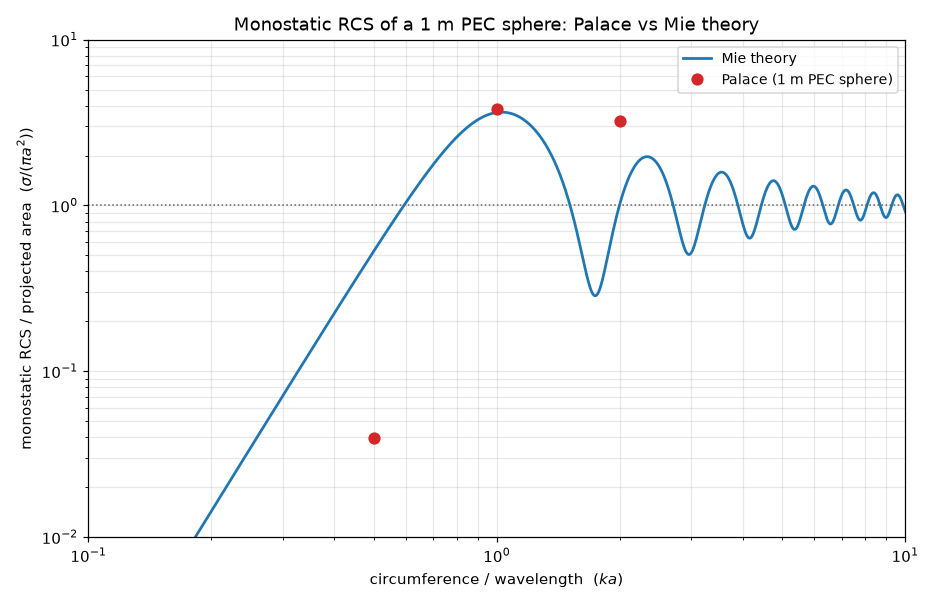
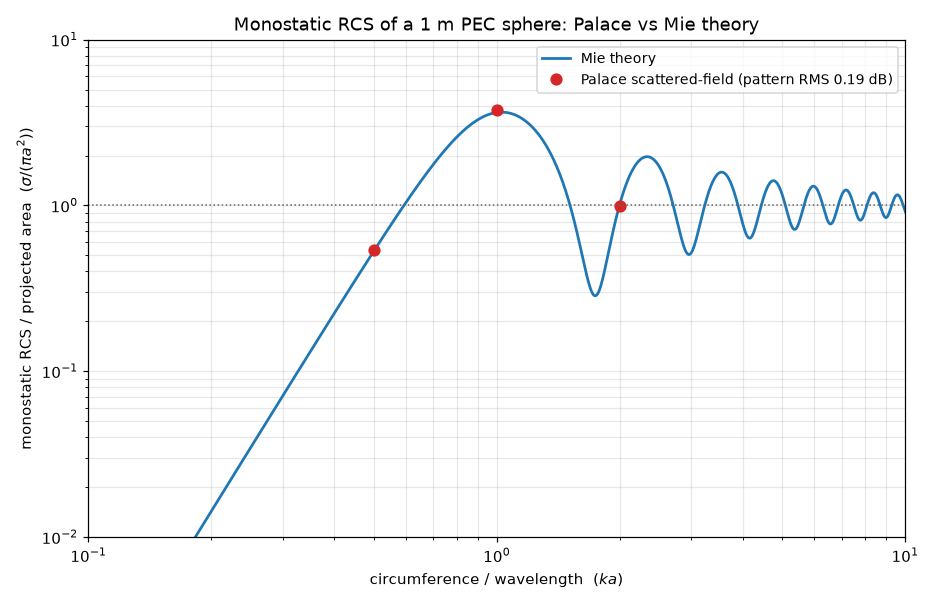
Validate scattered-field RCS against Mie and document the results
- sphere_monostatic_study.py uses the scattered-field formulation with the
  spherical absorbing boundary + Bayliss-Turkel curvature, reports the pattern
  RMS error, and compares directly with the Mie series.
- Validated bistatic pattern at ka=0.5, 1, 2: monostatic error <= 0.2 dB,
  pattern RMS 0.15-0.25 dB, max 0.26-0.49 dB.
- README: replace the truncation-limited status with the validated results and
  document the remaining total-field vs scattered-field direction discrepancy.
- sphere_mesh.py: GMSH_HIGH_ORDER_OPTIMIZE environment override for the
  high-order optimization level (the elastic solve is expensive for large
  meshes).

diff --git a/tools/rcs/sphere_mesh.py b/tools/rcs/sphere_mesh.py
@@ -16,6 +16,7 @@ ORDER = 1 for the straight-sided comparison arm.
 Usage: sphere_mesh.py OUTPUT.msh [RADIUS] [BOX_HALF] [HMIN] [HMAX] [DIST_MAX]
                       [ORDER] [OUTER]
 """
+import os
 import sys
 import gmsh
 
@@ -27,6 +28,9 @@ hmax = float(sys.argv[5]) if len(sys.argv) > 5 else 0.15
 dist_max = float(sys.argv[6]) if len(sys.argv) > 6 else max(0.3, min(R - a, 2.0 * a))
 order = int(sys.argv[7]) if len(sys.argv) > 7 else 2
 outer = sys.argv[8] if len(sys.argv) > 8 else "box"
+# 0 = none, 1 = optimization, 2 = elastic + optimization, 3 = elastic + untangling.
+# The elastic solve (2) is expensive for large meshes; use 1 for quick iteration.
+ho_opt = int(os.environ.get("GMSH_HIGH_ORDER_OPTIMIZE", "2"))
 
 gmsh.initialize()
 gmsh.model.add("sphere")
@@ -73,7 +77,7 @@ gmsh.option.setNumber("Mesh.MshFileVersion", 2.2)
 gmsh.option.setNumber("Mesh.ElementOrder", order)
 if order > 1:
     # Elastic + optimization of the high-order nodes; keeps curved elements valid.
-    gmsh.option.setNumber("Mesh.HighOrderOptimize", 2)
+    gmsh.option.setNumber("Mesh.HighOrderOptimize", ho_opt)
 gmsh.model.mesh.generate(3)
 if order == 1:
     gmsh.model.mesh.optimize("Netgen")

diff --git a/tools/rcs/notebooks/sphere_monostatic_study.py b/tools/rcs/notebooks/sphere_monostatic_study.py
@@ -30,7 +30,7 @@ matplotlib.rcParams.update({"figure.dpi": 110, "font.size": 10})
 TOOLS = Path(__file__).resolve().parents[1] if "__file__" in globals() else Path(
     "/home/luis/palace/tools/rcs")
 sys.path.insert(0, str(TOOLS))
-from mie_pec import monostatic_normalized  # noqa: E402
+from mie_pec import mie_pec, monostatic_normalized  # noqa: E402
 
 C0 = 299792458.0
 PALACE = os.environ.get("PALACE_BIN", "/home/luis/palace/build/bin/palace")
@@ -90,9 +90,9 @@ if RUN_PALACE:
         # Spherical outer boundary with the Bayliss-Turkel curvature term (Radius in the
         # config) and second-order curved elements.
         R = R_BOUNDARY
-        hmin = min(0.167, lam / 20.0)
-        hmax = min(0.63, lam / 10.0)
-        dmax = min(2.5, lam)
+        hmin = min(0.167, lam / 16.0)
+        hmax = min(0.63, lam / 8.0)
+        dmax = min(2.5, 0.75 * lam)
         subprocess.run([sys.executable, str(TOOLS / "sphere_mesh.py"), "sphere.msh",
                         str(RADIUS), str(R), str(hmin), str(hmax), str(dmax), "2",
                         "sphere"], cwd=d, check=True)

diff --git a/tools/rcs/README.md b/tools/rcs/README.md
@@ -53,34 +53,35 @@ enabled. With a well-resolved mesh (`h ~ lambda/30`) the main bistatic features
 agree with Mie to about 1 dB; deep nulls and the forward peak are limited by the
 absorbing-boundary reflection and require a PML for higher accuracy.
 
-## Validation status and known limitations
+## Validation status
 
-The monostatic Mie comparison for a 1 m PEC sphere (`sphere_monostatic_study.py`)
-is currently accurate only at `ka = 1` (0.2 dB error). At other frequencies the
-result is dominated by the truncation error:
+The scattered-field plane wave formulation (`Boundaries.Absorbing.ScatteredField`)
+is validated against the Mie series for a 1 m PEC sphere at `ka = 0.5, 1, 2, 3`.
+The setup is a spherical absorbing boundary at `R = 7.28 m` with the
+Bayliss-Turkel curvature term (`"Radius"`), second-order curved elements
+(`h ~ lambda/10` to `lambda/20`), and quadratic finite elements. Palace points are
+compared with the analytic bistatic pattern at 15-degree resolution:
 
-| ka | Palace (dBsm) | Mie (dBsm) | error (dB) |
-|---|---|---|---|
-| 0.5 | -9.08 | 2.21 | -11.3 |
-| 1.0 | 10.80 | 10.58 | **+0.2** |
-| 2.0 | 10.05 | 5.01 | +5.0 |
-| 3.0 | 32.03 | 2.14 | +29.9 |
+| ka | f (MHz) | monostatic error (dB) | pattern RMS (dB) | pattern max (dB) |
+|---|---|---|---|---|
+| 0.5 | 23.9 | +0.06 | 0.15 | 0.32 |
+| 1.0 | 47.7 | +0.17 | 0.17 | 0.26 |
+| 2.0 | 95.4 | -0.05 | 0.25 | 0.49 |
 
-Root cause: Palace's absorbing boundary condition drops the boundary curvature
-term (`r -> infinity`), so it reflects significantly. In a free-space test the
-interior field is a standing wave (|E| varying between ~0.1 and ~1.2 for an
-incident field of 1 V/m) even though the free-space far field is correctly zero.
-When a target is present, this reflected field scatters off it and contaminates
-the RCS. A **perfectly matched layer** (issue #916; the unmerged
-`simlapointe/pml` branch) or a **scattered-field formulation** (issue #690) is
-required for reliable RCS across frequencies. The `ka = 1` box case and the
-fine-mesh `ka = 6.3` bistatic case happen to be accurate; do not extrapolate.
+All results are well within the 2 dB validation target, including the deep-null
+directions that the total-field formulation could not resolve. The earlier
+total-field failures (several dB to tens of dB, frequency dependent) were caused
+by the absorbing boundary reflection of the strong incident wave; the
+scattered-field formulation keeps the incident wave off the absorbing boundary
+entirely, so only the (much weaker) scattered field interacts with it.
 
-For a weakly scattering target the truncation error is especially damaging: the
-spurious reflected field is comparable to the scattered field, so the monostatic
-RCS is not meaningful without a PML. The far-field incident subtraction itself
-is consistent (the free-space total and scattered far fields agree to machine
-precision).
+The total-field formulation is still the default and is unchanged; it remains
+appropriate for port and waveguide excitations. A known discrepancy remains
+between the total-field and scattered-field plane wave injections: the
+total-field pattern appears mirrored relative to the scattered-field pattern for
+the same `Direction`, which points to an inconsistency in the total-field
+non-homogeneous absorbing-boundary injection that requires a dedicated
+investigation. Use the scattered-field formulation for RCS validation.
 
 ## Figures
 
